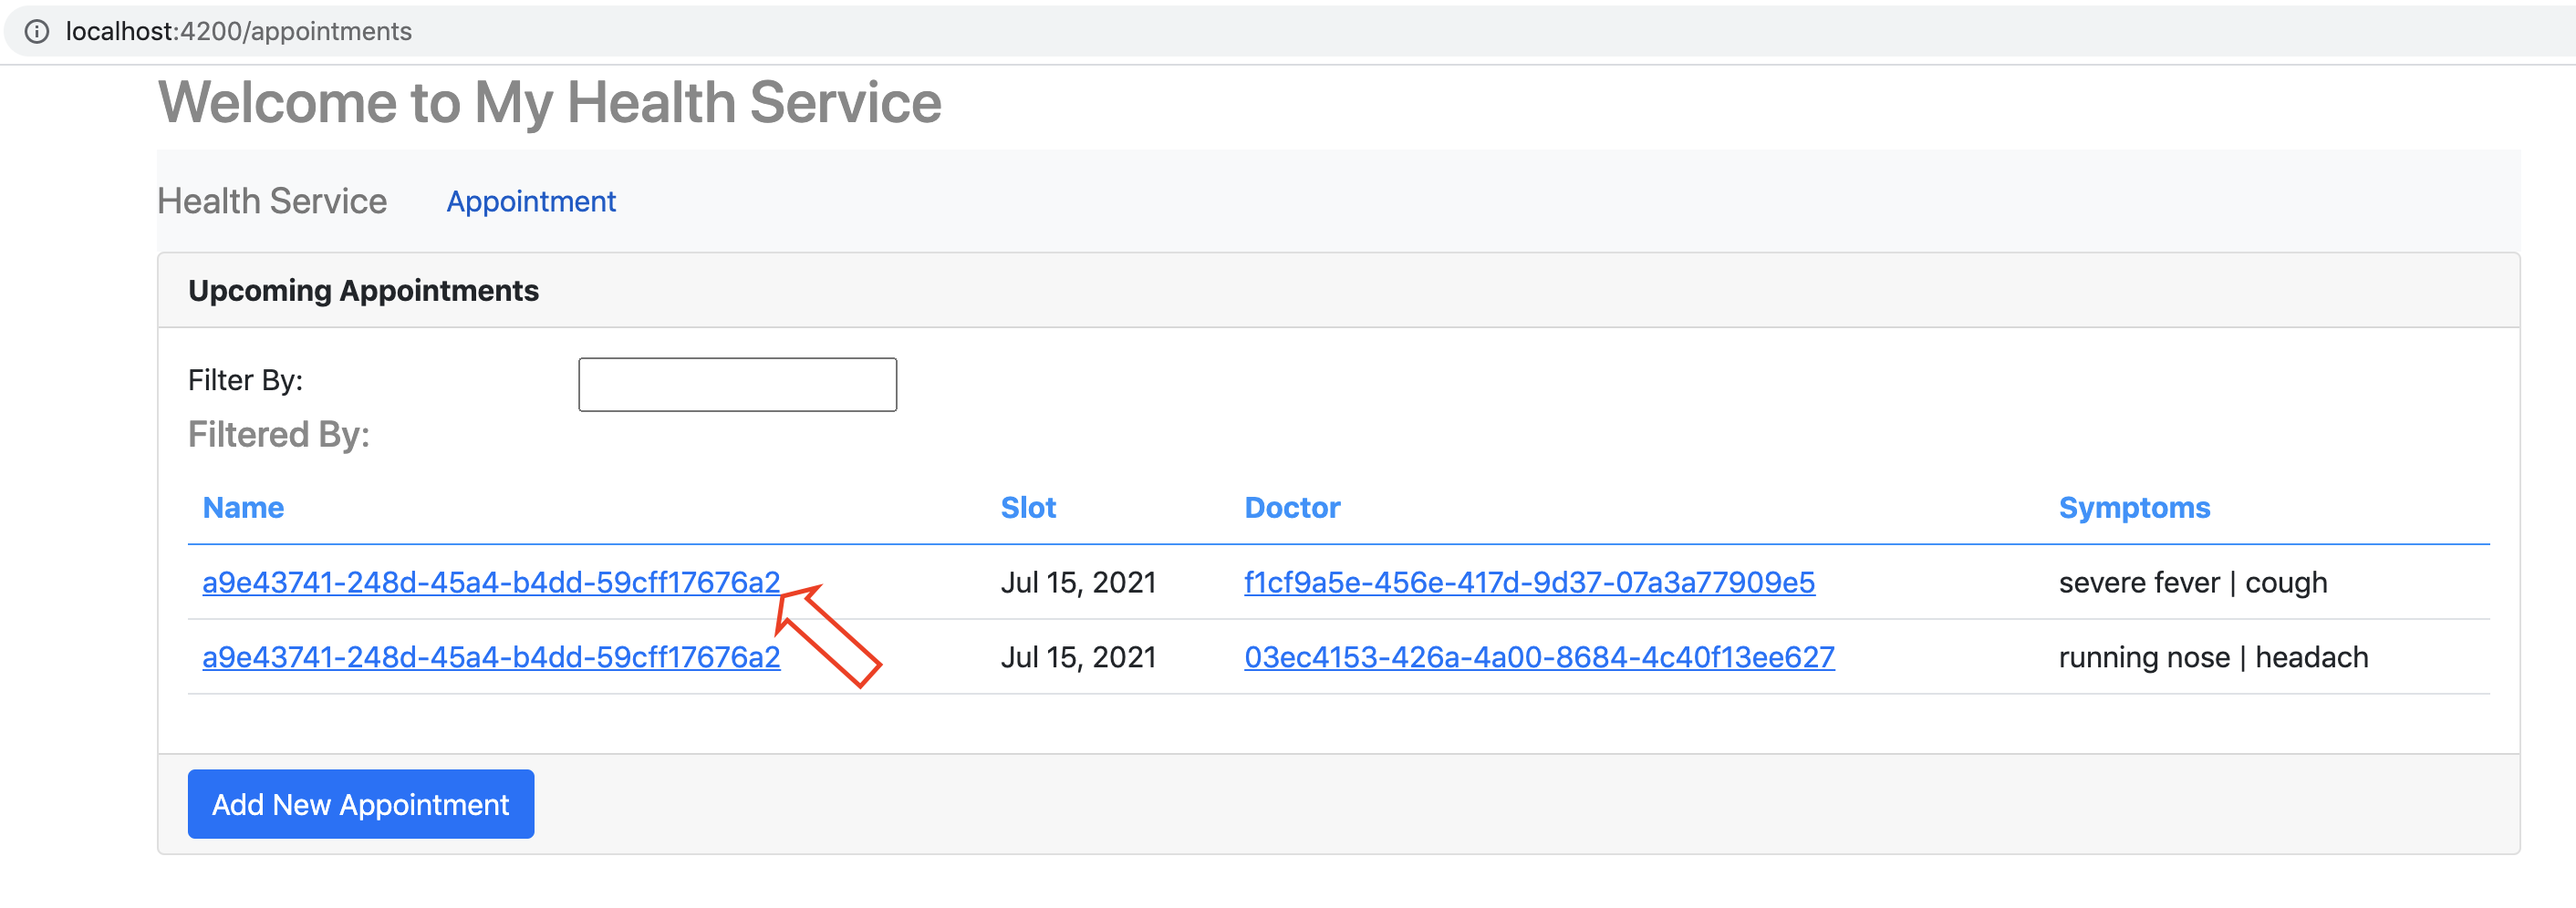
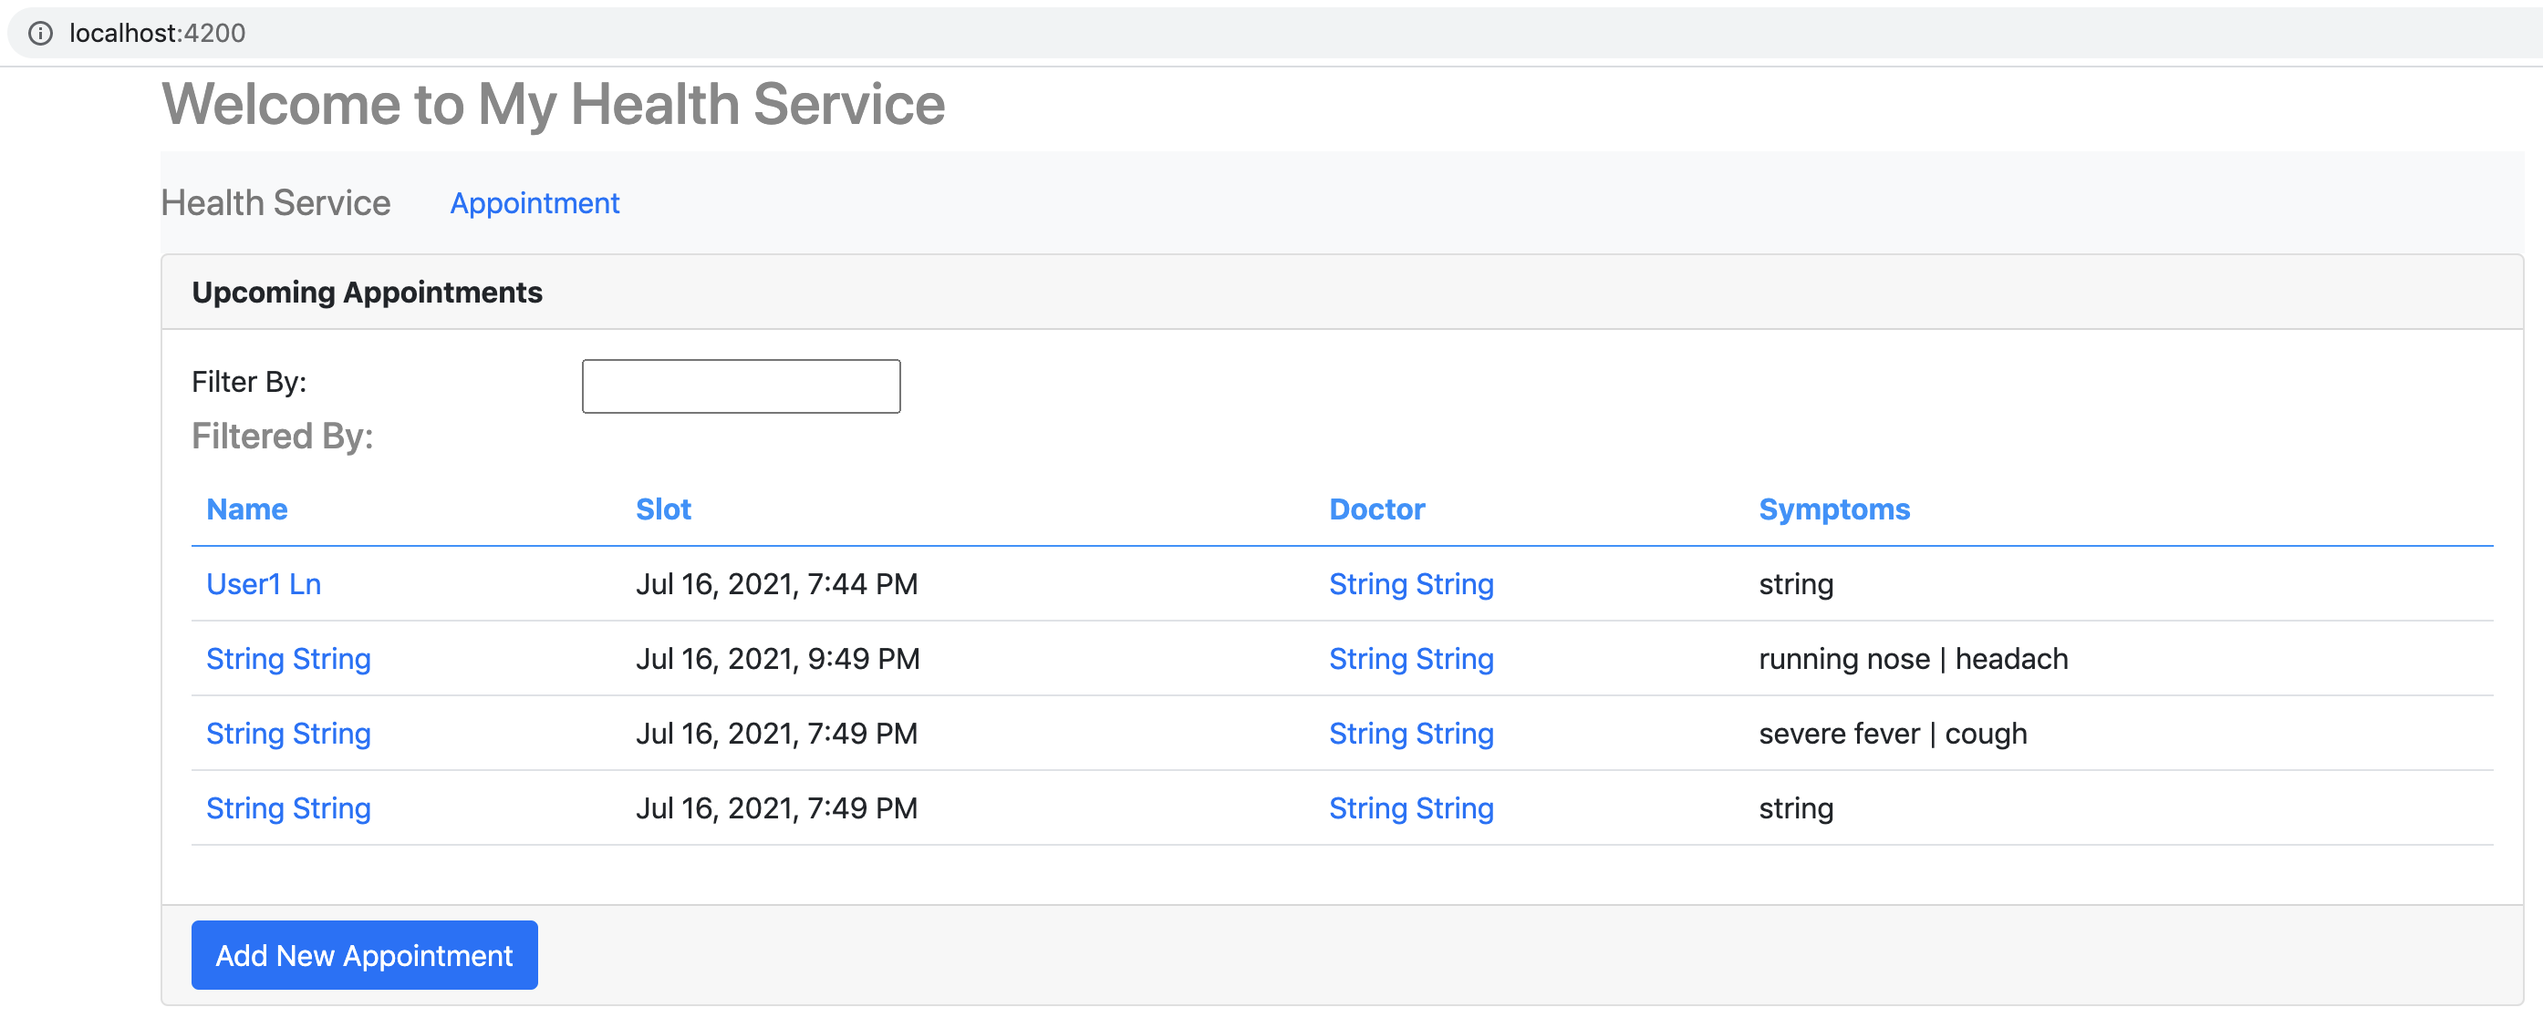
#22 adding new screen for creating new appointments

diff --git a/health-service-ui/src/app/features/appointment/create-appointment/create-appointment.component.html b/health-service-ui/src/app/features/appointment/create-appointment/create-appointment.component.html
@@ -1,0 +1,69 @@
+<div class="card">
+  <div class="card-header">
+    <b>Create Appointment</b>
+  </div>
+  <div class="card-body">
+    <form #appointmentForm="ngForm" (ngSubmit)="onSubmit(appointmentForm)">
+      <div class="mb-3">
+        <label for="patientName" class="form-label">Name</label>
+        <input id="patientName" name="patientName" class="form-control" placeholder="Name" style="width: 50%" ngModel
+               required #patientNameField="ngModel"
+               [class.field-error]="appointmentForm.submitted && patientNameField.invalid">
+        <div [hidden]="!appointmentForm.submitted || patientNameField.valid"
+             class="alert alert-danger" style="width: 50%">
+          Enter Name
+        </div>
+      </div>
+
+      <div class="mb-3">
+        <label for="mobileNum" class="form-label">Mobile</label>
+        <input id="mobileNum" name="mobileNum" class="form-control" placeholder="0000000000" style="width: 50%" ngModel
+               required pattern="\d{10}" #mobileField="ngModel"
+               [class.field-error]="appointmentForm.submitted && mobileField.invalid">
+        <div [hidden]="!appointmentForm.submitted || mobileField.valid"
+             class="alert alert-danger" style="width: 50%">
+          Enter valid mobile number
+        </div>
+      </div>
+
+      <div class="mb-3">
+        <label for="doctorName" class="form-label">Doctor</label>
+        <input id="doctorName" name="doctorName" class="form-control" placeholder="Doctor's Name" style="width: 50%"
+               ngModel
+               required max="100" #doctorNameField="ngModel"
+               [class.field-error]="appointmentForm.submitted && doctorNameField.invalid">
+        <div [hidden]="!appointmentForm.submitted || doctorNameField.valid"
+             class="alert alert-danger" style="width: 50%">
+          Enter Doctor's Name
+        </div>
+      </div>
+
+      <div class="mb-3">
+        <label for="slot" class="form-label">Appointment Slot</label>
+        <input id="slot" name="slot" type="datetime-local" class="form-control" placeholder="Slot" style="width: 50%"
+               ngModel
+               required #slotField="ngModel" [class.field-error]="appointmentForm.submitted && slotField.invalid">
+        <div [hidden]="!appointmentForm.submitted || slotField.valid"
+             class="alert alert-danger" style="width: 50%">
+          Select slot for appointment
+        </div>
+      </div>
+
+      <div class="mb-3">
+        <label for="symptoms" class="form-label">Symptoms</label>
+        <textarea class="form-control" id="symptoms" name="symptoms" rows="3" style="width: 50%" ngModel
+                  required #symptomField="ngModel"
+                  [class.field-error]="appointmentForm.submitted && symptomField.invalid"></textarea>
+        <div [hidden]="!appointmentForm.submitted || symptomField.valid"
+             class="alert alert-danger" style="width: 50%">
+          Add basic symptoms
+        </div>
+      </div>
+
+      <div class="mb-3">
+        <button class="btn btn-primary">Submit</button>
+      </div>
+    </form>
+
+  </div>
+</div>

diff --git a/health-service-ui/src/app/features/appointment/create-appointment/create-appointment.component.ts b/health-service-ui/src/app/features/appointment/create-appointment/create-appointment.component.ts
@@ -1,0 +1,54 @@
+import {Component, OnInit} from '@angular/core';
+import {IAppointment} from "../appointment";
+import {AppointmentService} from "../appointment.service";
+import {NgForm} from "@angular/forms";
+
+@Component({
+  templateUrl: './create-appointment.component.html',
+  styleUrls: ['./create-appointment.component.css']
+})
+export class CreateAppointmentComponent implements OnInit {
+
+  appointment!: IAppointment;
+  submitted: boolean = false;
+  private errorMessage: string = '';
+
+  constructor(private appointmentService: AppointmentService) {
+  }
+
+  ngOnInit(): void {
+  }
+
+  onSubmit(form: NgForm) {
+    this.setAppointment(form.value);
+    console.log("Appointment object ready to be sent out:: " + JSON.stringify(this.appointment))
+    this.submitted = true;
+    this.appointmentService.postNewAppointments(this.appointment).subscribe(
+      {
+        next: result => {
+          this.appointment = result
+          console.log("submitted request: " + this.appointment);
+        },
+        error: err => {
+          this.errorMessage = err
+          console.log(this.errorMessage)
+        }
+      }
+    );
+  }
+
+  private setAppointment(app: any) {
+    // TODO appointment object is not setting up  correctly
+    this.appointment = {
+      appointmentId: '',
+      patientId: '',
+      doctorId: '',
+      operatorId: '',
+      doctorName: app.doctorName,
+      patientName: app.patientName,
+      operatorName: '',
+      additionalComment: app.symptoms,
+      appointmentTime: app.slot
+    }
+  }
+}

diff --git a/health-service-ui/src/app/features/appointment/appointment.service.ts b/health-service-ui/src/app/features/appointment/appointment.service.ts
@@ -8,16 +8,22 @@ import {catchError, tap} from "rxjs/operators";
   providedIn: 'root'
 })
 export class AppointmentService {
-  private upcomingAppointments = 'https://localhost:9000/appointment/appointment/upcomingApp';
+  private url!: string;
 
   constructor(private http: HttpClient) {
   }
 
   getUpcomingAppointments(): Observable<IAppointment[]> {
-    return this.http.get<IAppointment[]>(this.upcomingAppointments).pipe(
+    this.url = 'https://localhost:9000/appointment/appointment/upcomingApp';
+    return this.http.get<IAppointment[]>(this.url).pipe(
       tap(data => console.log(JSON.stringify(data))),
       catchError(this.handleError)
     );
+  }
+
+  postNewAppointments(appointment: IAppointment): Observable<IAppointment> {
+    this.url = 'https://localhost:9000/appointment/appointment/';
+    return this.http.post<IAppointment>(this.url, appointment);
   }
 
   private handleError(err: HttpErrorResponse) {

diff --git a/health-service-ui/src/app/features/appointment/create-appointment/create-appointment.component.spec.ts b/health-service-ui/src/app/features/appointment/create-appointment/create-appointment.component.spec.ts
@@ -1,0 +1,25 @@
+import { ComponentFixture, TestBed } from '@angular/core/testing';
+
+import { CreateAppointmentComponent } from './create-appointment.component';
+
+describe('CreateAppointmentComponent', () => {
+  let component: CreateAppointmentComponent;
+  let fixture: ComponentFixture<CreateAppointmentComponent>;
+
+  beforeEach(async () => {
+    await TestBed.configureTestingModule({
+      declarations: [ CreateAppointmentComponent ]
+    })
+    .compileComponents();
+  });
+
+  beforeEach(() => {
+    fixture = TestBed.createComponent(CreateAppointmentComponent);
+    component = fixture.componentInstance;
+    fixture.detectChanges();
+  });
+
+  it('should create', () => {
+    expect(component).toBeTruthy();
+  });
+});

diff --git a/health-service-ui/src/app/features/appointment/upcoming-appointment/upcomingAppointment.component.html b/health-service-ui/src/app/features/appointment/upcoming-appointment/upcomingAppointment.component.html
@@ -32,7 +32,7 @@
           <td>
             <a [routerLink]="['/user', patient.patientId]">{{patient.patientName | titlecase}}</a>
           </td>
-          <td>{{patient.appointmentTime | date}}</td>
+          <td>{{patient.appointmentTime | date:'MMM d, y, h:mm a'}}</td>
           <td>
             <a [routerLink]="['/user', patient.doctorId]">{{patient.doctorName | titlecase}}</a>
           </td>
@@ -43,6 +43,6 @@
     </div>
   </div>
   <div class="card-footer">
-    <button class="btn btn-primary">Add New Appointment</button>
+    <button class="btn btn-primary" routerLink="/user/create">Add New Appointment</button>
   </div>
 </div>

diff --git a/health-service-ui/src/app/features/feature.module.ts b/health-service-ui/src/app/features/feature.module.ts
@@ -6,6 +6,7 @@ import {SharedModule} from "../shared/shared.module";
 import { CreateAppointmentComponent } from './appointment/create-appointment/create-appointment.component';
 
 const routes: Routes = [
+  {path: 'user/create', component: CreateAppointmentComponent},
   {path: 'user/:userId', component: UserDetailComponent},
   {path: 'appointments', component: UpcomingAppointmentComponent}
 ];
@@ -13,7 +14,8 @@ const routes: Routes = [
 @NgModule({
   declarations: [
     UpcomingAppointmentComponent,
-    UserDetailComponent
+    UserDetailComponent,
+    CreateAppointmentComponent
   ],
   imports: [
     RouterModule.forChild(routes),

diff --git a/health-service-ui/src/app/features/appointment/upcoming-appointment/upcomingAppointment.component.ts b/health-service-ui/src/app/features/appointment/upcoming-appointment/upcomingAppointment.component.ts
@@ -40,7 +40,7 @@ export class UpcomingAppointmentComponent implements OnInit, OnDestroy {
 
   private performFilter(filterBy: string): IAppointment[] {
     filterBy = filterBy.toLowerCase();
-    return this.mockAppointments.filter((app: IAppointment) => app.patientId.toLowerCase().includes(filterBy));
+    return this.mockAppointments.filter((app: IAppointment) => app.patientName.toLowerCase().includes(filterBy));
   }
 
   ngOnDestroy() {

diff --git a/health-service-ui/src/app/features/appointment/appointment.ts b/health-service-ui/src/app/features/appointment/appointment.ts
@@ -6,8 +6,8 @@ export interface IAppointment {
   patientName: string;
   operatorId: string;
   operatorName: string;
-  createdTs: string;
-  lastUpdatedTs: string;
+  createdTs?: string;
+  lastUpdatedTs?: string;
   appointmentTime: string;
   additionalComment: string;
 }

diff --git a/health-service-ui/src/app/features/appointment/create-appointment/create-appointment.component.css b/health-service-ui/src/app/features/appointment/create-appointment/create-appointment.component.css
@@ -1,0 +1,3 @@
+.field-error {
+  border: 1px solid red;
+}

diff --git a/myappointment/src/main/java/com/mukesh/ms/myappointment/controller/AppointmentController.java b/myappointment/src/main/java/com/mukesh/ms/myappointment/controller/AppointmentController.java
@@ -27,7 +27,6 @@ import java.util.stream.Collectors;
 @Slf4j
 @RestController
 @RequestMapping("/appointment/")
-//@CrossOrigin(origins = "http://localhost:4200", maxAge = 3600)
 public class AppointmentController {
   AppointmentService appointmentService;
 

diff --git a/health-service-ui/README.md b/health-service-ui/README.md
@@ -3,10 +3,20 @@
 A frontend application for health-service api.
 
 ## Wireframe
-#### Appointment Screen
+
+<details>
+<summary><b>Application screens (Click to expand)</b></summary>
+
+#### Upcoming Appointment Screen
 ![Appointment](../images/app-wireframes/ui/hs-ui-app.png)
+#### Appointment Creation Screen
+![User Details](../images/app-wireframes/ui/hs-ui-app-create.png)
+#### Appointment Creation Screen (Validation messages)
+![User Details](../images/app-wireframes/ui/hs-ui-app-create-validate.png)
 #### User Details Screen
 ![User Details](../images/app-wireframes/ui/hs-ui-user.png)
+
+</details>
 
 ## Development server
 
